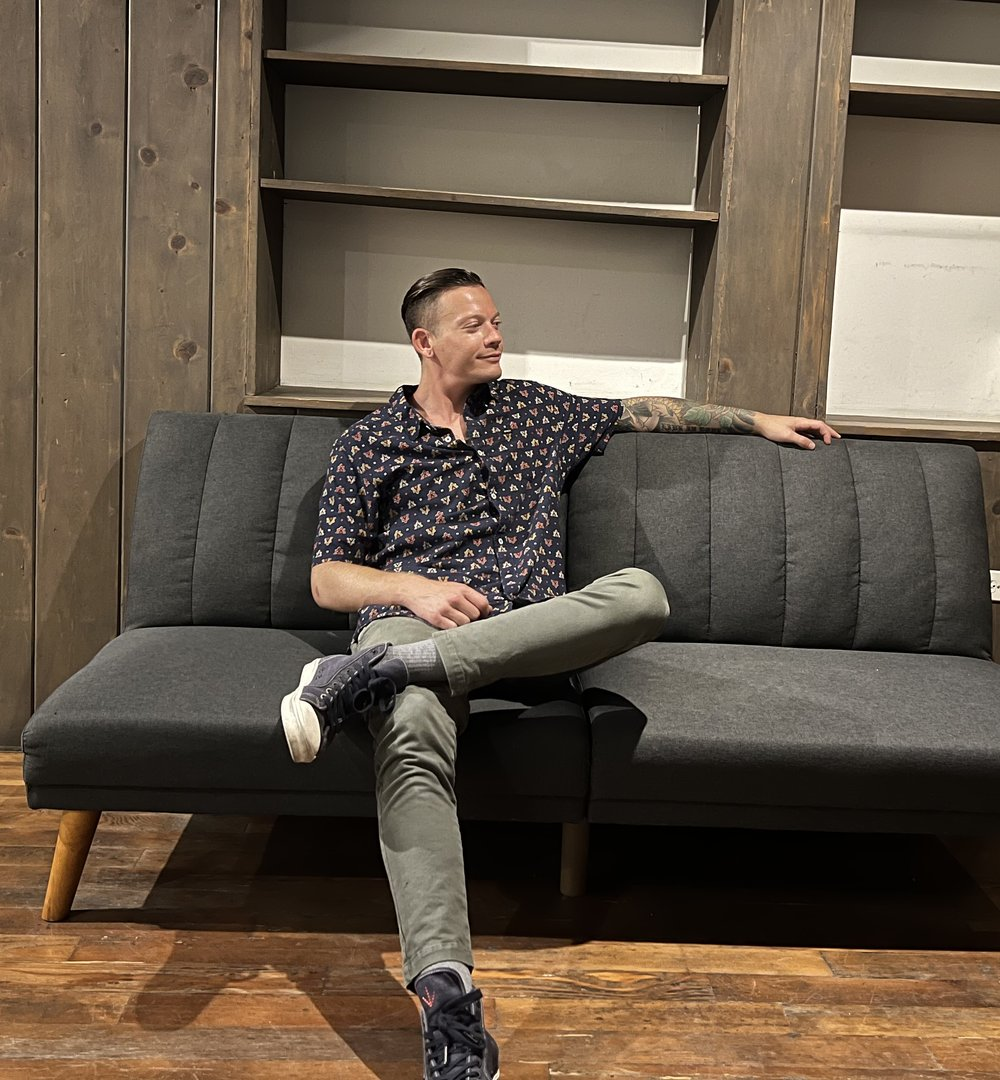
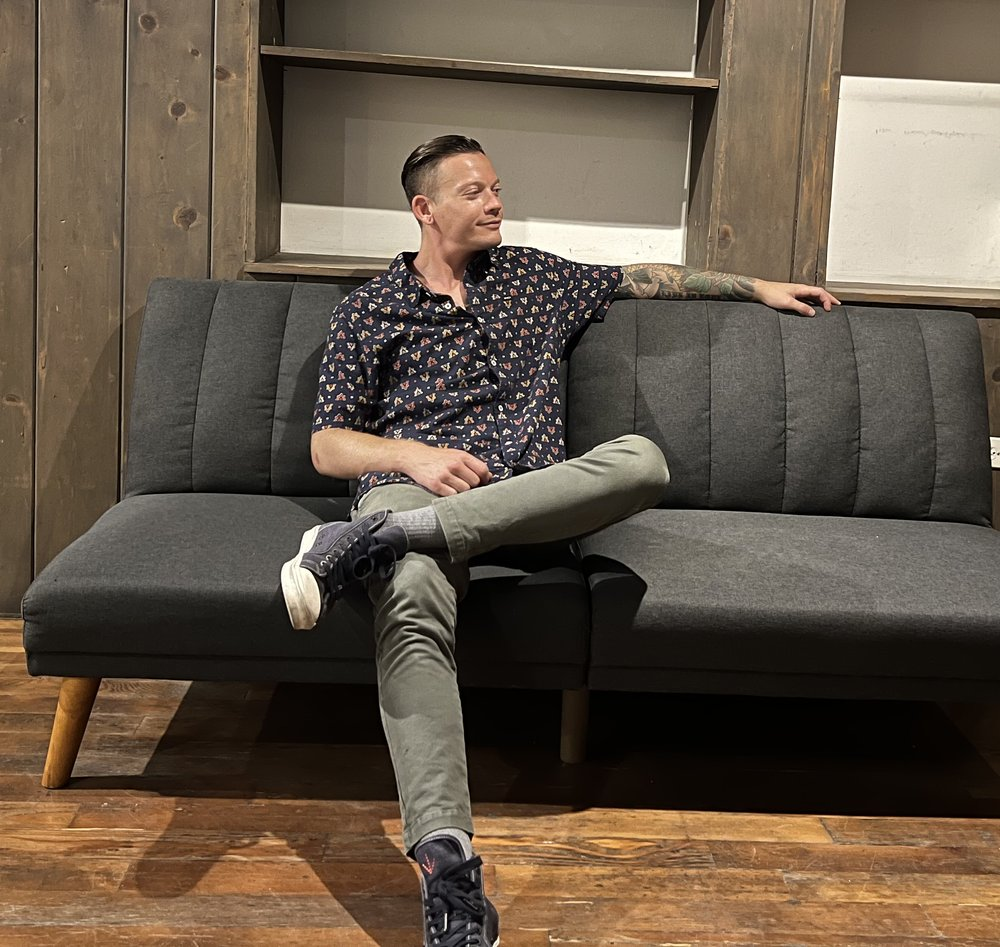
Trim excess headroom in portrait crop, darken stamp ring to black

diff --git a/src/styles/global.css b/src/styles/global.css
@@ -149,7 +149,7 @@
   .seal-ring {
     position: relative;
     border-radius: 9999px;
-    border: 1.5px dashed var(--color-line);
+    border: 1.5px dashed var(--color-ink);
   }
 
   .stamp-badge {